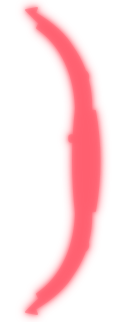
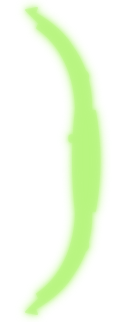
선딜 노란 외곽선 제거, 궁수 활 갈색·초록 + 연두 빛 (#127)
Claude-Session: https://claude.ai/code/session_014LK3LCMRfeXrTGqs4qkV62

Changed region(s): [[0.1818, 0.0, 0.8182, 0.9938]]

diff --git a/tools/archer_gen.js b/tools/archer_gen.js
@@ -1,5 +1,5 @@
 // 궁수 그림 생성 (미리 구워두는 용도). 결과는 게임용 1/2 크기 → web/assets/에 복사
-//   archer_bow.png 132x322 : 활 + 적붉은 빛 테두리 (세로로 섬, 쏘는 방향 = 오른쪽, 손잡이 가운데 (87,161), 줄 거는 고리 위 (31,12)·아래 (31,310), 줄은 게임에서 그림) — 보통
+//   archer_bow.png 132x322 : 갈색 나무 활 + 초록 장식 + 연두 빛 테두리 (세로로 섬, 쏘는 방향 = 오른쪽, 손잡이 가운데 (87,161), 줄 거는 고리 위 (31,12)·아래 (31,310), 줄은 게임에서 그림) — 보통
 //   archer_bow_glow.png 132x322 : 다 당겼을 때 활 전체가 빛나는 그림 (활과 같은 크기·좌표, 'lighter')
 //   archer_arrow_impact.png / _explosive / _frost / _homing  132x36 : 화살 + 종류 색 빛 테두리 (오른쪽을 향함, 오늬 x 7, 촉 끝 x 124, 가운데 y 18) — 보통
 //     충격(평타, 맞으면 밀쳐냄)·폭발·감속·유도(궁극기). 몸통·깃 모양은 같고 촉과 색만 다름
@@ -18,8 +18,8 @@ const OUT = process.argv[2] || __dirname;
     const OUTL = '#07070a';
     const bow = mk(240, 620), g = bow.getContext('2d'); const CY = 310;
     g.lineJoin = 'round'; g.lineCap = 'round';
-    const black = (x0, x1) => { const gr = g.createLinearGradient(x0, 0, x1, 0); gr.addColorStop(0, '#3a3a44'); gr.addColorStop(0.45, '#1a1a20'); gr.addColorStop(1, '#0b0b0f'); return gr; };
-    const crimson = (x0, x1) => { const gr = g.createLinearGradient(x0, 0, x1, 0); gr.addColorStop(0, '#e0333f'); gr.addColorStop(0.5, '#9e1220'); gr.addColorStop(1, '#5a0710'); return gr; };
+    const black = (x0, x1) => { const gr = g.createLinearGradient(x0, 0, x1, 0); gr.addColorStop(0, '#a8743f'); gr.addColorStop(0.45, '#6e4521'); gr.addColorStop(1, '#3d230e'); return gr; }; // 갈색 나무
+    const crimson = (x0, x1) => { const gr = g.createLinearGradient(x0, 0, x1, 0); gr.addColorStop(0, '#6fcf4a'); gr.addColorStop(0.5, '#2f8a2a'); gr.addColorStop(1, '#174d16'); return gr; }; // 초록
 
     // 위·아래 날개(림): 손잡이에서 줄 쪽(왼쪽)으로 휘어 가다가 끝이 다시 앞으로 살짝 젖혀짐. sy = 1 위, -1 아래
     const limb = (sy) => {
@@ -35,15 +35,15 @@ const OUT = process.argv[2] || __dirname;
       g.fillStyle = crimson(40, 120);
       g.beginPath(); g.moveTo(118, y(222)); g.bezierCurveTo(104, y(245), 84, y(262), 62, y(280)); g.lineTo(40, y(302)); g.lineTo(62, y(306)); g.lineTo(58, y(296)); g.bezierCurveTo(92, y(276), 118, y(254), 134, y(226)); g.closePath(); g.fill(); g.stroke();
       // 날개 옆 적붉은 줄무늬
-      g.strokeStyle = '#c41e2a'; g.lineWidth = 5;
+      g.strokeStyle = '#3a9a30'; g.lineWidth = 5;
       g.beginPath(); g.moveTo(160, y(110)); g.bezierCurveTo(162, y(165), 136, y(215), 104, y(242)); g.stroke();
-      g.strokeStyle = 'rgba(255,120,130,0.6)'; g.lineWidth = 1.5;
+      g.strokeStyle = 'rgba(190,240,140,0.6)'; g.lineWidth = 1.5;
       g.beginPath(); g.moveTo(158, y(112)); g.bezierCurveTo(160, y(165), 134, y(213), 102, y(240)); g.stroke();
       // 이음새 원판 (은색 + 적붉은 고리)
       const cx = 150, cy = y(168);
       g.fillStyle = '#b8bcc6'; g.strokeStyle = OUTL; g.lineWidth = 3; g.beginPath(); g.arc(cx, cy, 15, 0, Math.PI * 2); g.fill(); g.stroke();
-      g.fillStyle = '#9e1220'; g.beginPath(); g.arc(cx, cy, 9, 0, Math.PI * 2); g.fill(); g.stroke();
-      g.fillStyle = '#ff5a66'; g.beginPath(); g.arc(cx - 2, cy - 2, 3, 0, Math.PI * 2); g.fill();
+      g.fillStyle = '#2f8a2a'; g.beginPath(); g.arc(cx, cy, 9, 0, Math.PI * 2); g.fill(); g.stroke();
+      g.fillStyle = '#c8f59a'; g.beginPath(); g.arc(cx - 2, cy - 2, 3, 0, Math.PI * 2); g.fill();
       // 줄 거는 고리
       g.fillStyle = '#b8bcc6'; g.beginPath(); g.arc(50, y(298), 4, 0, Math.PI * 2); g.fill(); g.stroke();
     };
@@ -57,22 +57,22 @@ const OUT = process.argv[2] || __dirname;
     g.strokeStyle = 'rgba(0,0,0,0.45)'; g.lineWidth = 2; for (let i = -26; i <= 26; i += 8) { g.beginPath(); g.moveTo(146, CY + i); g.lineTo(178, CY + i + 4); g.stroke(); }
     // 화살 받침 + 빛나는 붉은 보석
     g.fillStyle = '#c9ccd4'; g.strokeStyle = OUTL; g.lineWidth = 3; g.beginPath(); g.roundRect(126, CY - 52, 26, 14, 4); g.fill(); g.stroke();
-    const gem = g.createRadialGradient(164, CY - 70, 0, 164, CY - 70, 14); gem.addColorStop(0, '#ffd0d4'); gem.addColorStop(0.35, '#ff2a3a'); gem.addColorStop(1, '#5a0710');
+    const gem = g.createRadialGradient(164, CY - 70, 0, 164, CY - 70, 14); gem.addColorStop(0, '#f0ffd8'); gem.addColorStop(0.35, '#8fe050'); gem.addColorStop(1, '#1f5a12');
     g.fillStyle = gem; g.beginPath(); g.moveTo(164, CY - 84); g.lineTo(174, CY - 70); g.lineTo(164, CY - 56); g.lineTo(154, CY - 70); g.closePath(); g.fill(); g.stroke();
-    g.fillStyle = 'rgba(255,60,70,0.35)'; g.beginPath(); g.arc(164, CY - 70, 20, 0, Math.PI * 2); g.fill();
+    g.fillStyle = 'rgba(170,240,100,0.35)'; g.beginPath(); g.arc(164, CY - 70, 20, 0, Math.PI * 2); g.fill();
     // 몸체 은색 테두리 선
     g.strokeStyle = 'rgba(200,205,215,0.55)'; g.lineWidth = 2; g.beginPath(); g.moveTo(176, CY - 92); g.quadraticCurveTo(190, CY, 176, CY + 92); g.stroke();
     // 어두운 배경에서도 윤곽이 보이게: 활 실루엣을 적붉게 칠해 번지게 한 빛 테두리를 뒤에 깐다 (가장자리 여백 12px)
     const PAD = 12, rim = mk(bow.width + PAD * 2, bow.height + PAD * 2), rx = rim.getContext('2d');
     const sil = mk(bow.width, bow.height), sx = sil.getContext('2d');
-    sx.drawImage(bow, 0, 0); sx.globalCompositeOperation = 'source-in'; sx.fillStyle = '#ff3a48'; sx.fillRect(0, 0, sil.width, sil.height);
+    sx.drawImage(bow, 0, 0); sx.globalCompositeOperation = 'source-in'; sx.fillStyle = '#9ef060'; sx.fillRect(0, 0, sil.width, sil.height);
     for (const [bl, a] of [[7, 0.9], [3, 0.9]]) { rx.filter = `blur(${bl}px)`; rx.globalAlpha = a; rx.drawImage(sil, PAD, PAD); }
     rx.filter = 'none'; rx.globalAlpha = 1; rx.drawImage(bow, PAD, PAD);
     const bowH = half(rim);
     // 다 당겼을 때 활 전체가 빛나는 그림: 실루엣을 밝은 적붉은 빛으로 번지게 ('lighter'로 겹쳐 그림, 활 그림과 같은 크기·좌표)
     const gl = mk(rim.width, rim.height), gx = gl.getContext('2d');
     const silB = mk(bow.width, bow.height), sb = silB.getContext('2d');
-    sb.drawImage(bow, 0, 0); sb.globalCompositeOperation = 'source-in'; sb.fillStyle = '#ff6070'; sb.fillRect(0, 0, silB.width, silB.height);
+    sb.drawImage(bow, 0, 0); sb.globalCompositeOperation = 'source-in'; sb.fillStyle = '#b8f580'; sb.fillRect(0, 0, silB.width, silB.height);
     for (const [bl, a] of [[10, 1], [4, 0.8], [0, 0.45]]) { gx.filter = bl ? `blur(${bl}px)` : 'none'; gx.globalAlpha = a; gx.drawImage(silB, PAD, PAD); }
     const bowGlow = half(gl);
 

diff --git a/web/js/characters/archer.js b/web/js/characters/archer.js
@@ -7,7 +7,7 @@ const ARROW_COLORS = { impact: '111, 180, 255', explosive: '255, 120, 40', slow:
 const ARROW_LABELS = { impact: '충격 화살', explosive: '폭파 화살', slow: '감속 화살' };
 
 // 그림 (tools/archer_gen.js로 생성, 물체 그림이라 보통으로)
-const ARCHER_BOW_IMAGE = loadImage('assets/archer_bow.png');       // 132x322 활 + 빛 테두리, 쏘는 방향 = 오른쪽, 손잡이 (87,161), 줄 고리 위 (31,12)·아래 (31,310), 보석 (88,126)
+const ARCHER_BOW_IMAGE = loadImage('assets/archer_bow.png');       // 132x322 갈색·초록 활 + 연두 빛 테두리, 쏘는 방향 = 오른쪽, 손잡이 (87,161), 줄 고리 위 (31,12)·아래 (31,310), 보석 (88,126)
 const ARCHER_BOW_GLOW_IMAGE = loadImage('assets/archer_bow_glow.png'); // 132x322 당길수록 활 전체가 빛나는 그림 ('lighter', 같은 좌표)
 const ARCHER_ARROW_IMAGES = {                                 // 120x24 화살, 오른쪽을 향함, 오늬 x 1, 촉 끝 x 118
     impact: loadImage('assets/archer_arrow_impact.png'),
@@ -54,7 +54,7 @@ function drawArcherBow(ctx, cx, cy, facing, drawRatio, alpha = 1) {
     // 시위 (당길수록 붉은 빛)
     if (glow > 0) {
         ctx.save(); ctx.globalCompositeOperation = 'lighter';
-        ctx.strokeStyle = `rgba(255, 60, 80, ${0.5 * glow * alpha})`; ctx.lineWidth = 4;
+        ctx.strokeStyle = `rgba(160, 240, 90, ${0.5 * glow * alpha})`; ctx.lineWidth = 4;
         ctx.beginPath(); ctx.moveTo(tip1[0], tip1[1]); ctx.lineTo(nock[0], nock[1]); ctx.lineTo(tip2[0], tip2[1]); ctx.stroke();
         ctx.restore();
     }
@@ -69,7 +69,7 @@ function drawArcherBow(ctx, cx, cy, facing, drawRatio, alpha = 1) {
         // 손잡이 보석 빛
         const r = 4 + 9 * drawRatio, bx = 1 * k, by = -35 * k;
         const g = ctx.createRadialGradient(bx, by, 0, bx, by, r);
-        g.addColorStop(0, 'rgba(255, 200, 210, 0.9)'); g.addColorStop(1, 'rgba(255, 40, 60, 0)');
+        g.addColorStop(0, 'rgba(230, 255, 200, 0.9)'); g.addColorStop(1, 'rgba(140, 230, 70, 0)');
         ctx.globalAlpha = alpha * drawRatio; ctx.fillStyle = g; ctx.beginPath(); ctx.arc(bx, by, r, 0, Math.PI * 2); ctx.fill();
     }
     ctx.restore();

diff --git a/web/js/player.js b/web/js/player.js
@@ -258,14 +258,6 @@ class Player {
     drawBody(ctx) {
         const r = this.rect;
 
-        // 캐스팅 중 금색 테두리
-        if (this.castTimer > 0) {
-            const g = r.inflate(8, 8);
-            ctx.strokeStyle = COLOR_GOLD;
-            ctx.lineWidth = 2;
-            ctx.strokeRect(g.x + 1, g.y + 1, g.w - 2, g.h - 2);
-        }
-
         const style = this.bodyStyle ? this.bodyStyle(this) : null;
         if (isImageReady(this.spriteImage)) {
             // rect는 충돌 판정용이고, 화면에는 이미지만 그린다 (왼쪽을 보면 좌우반전)
